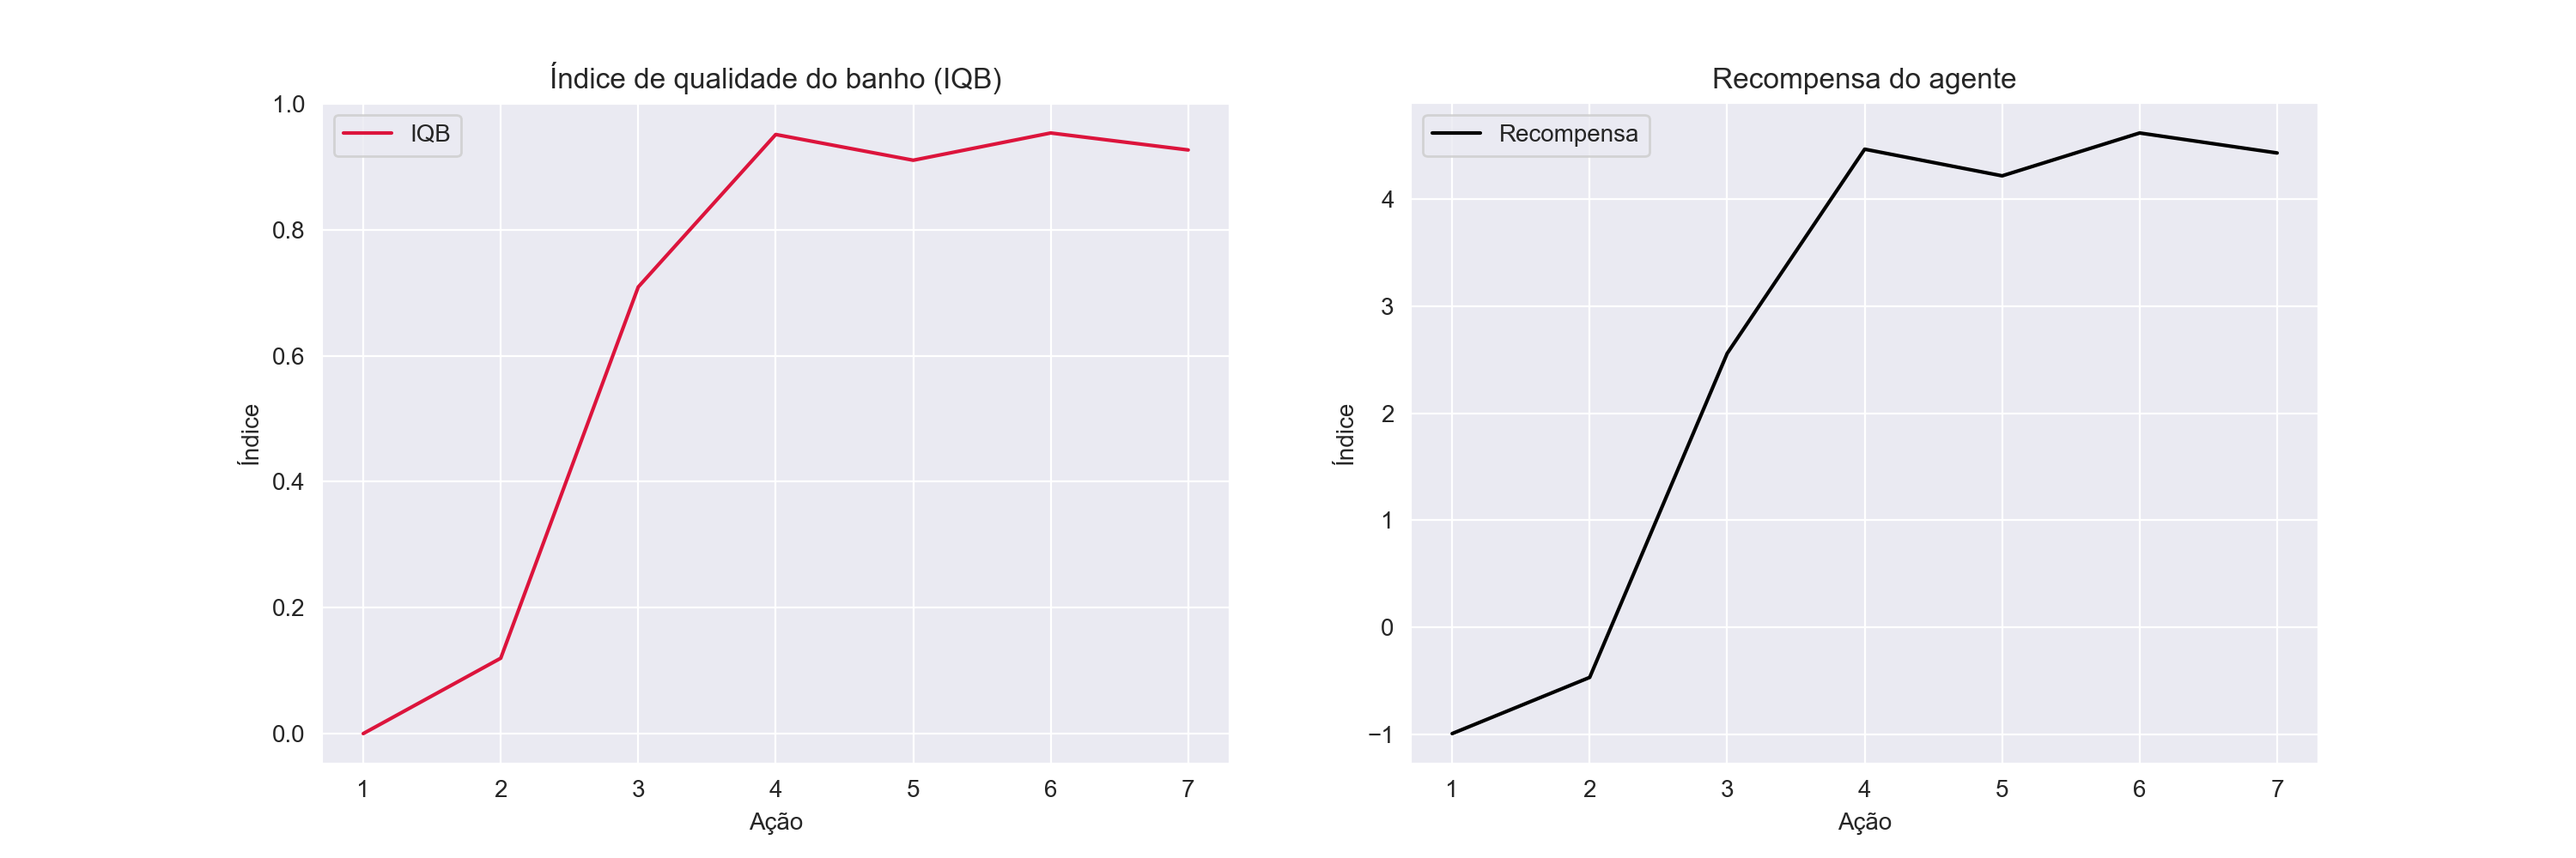
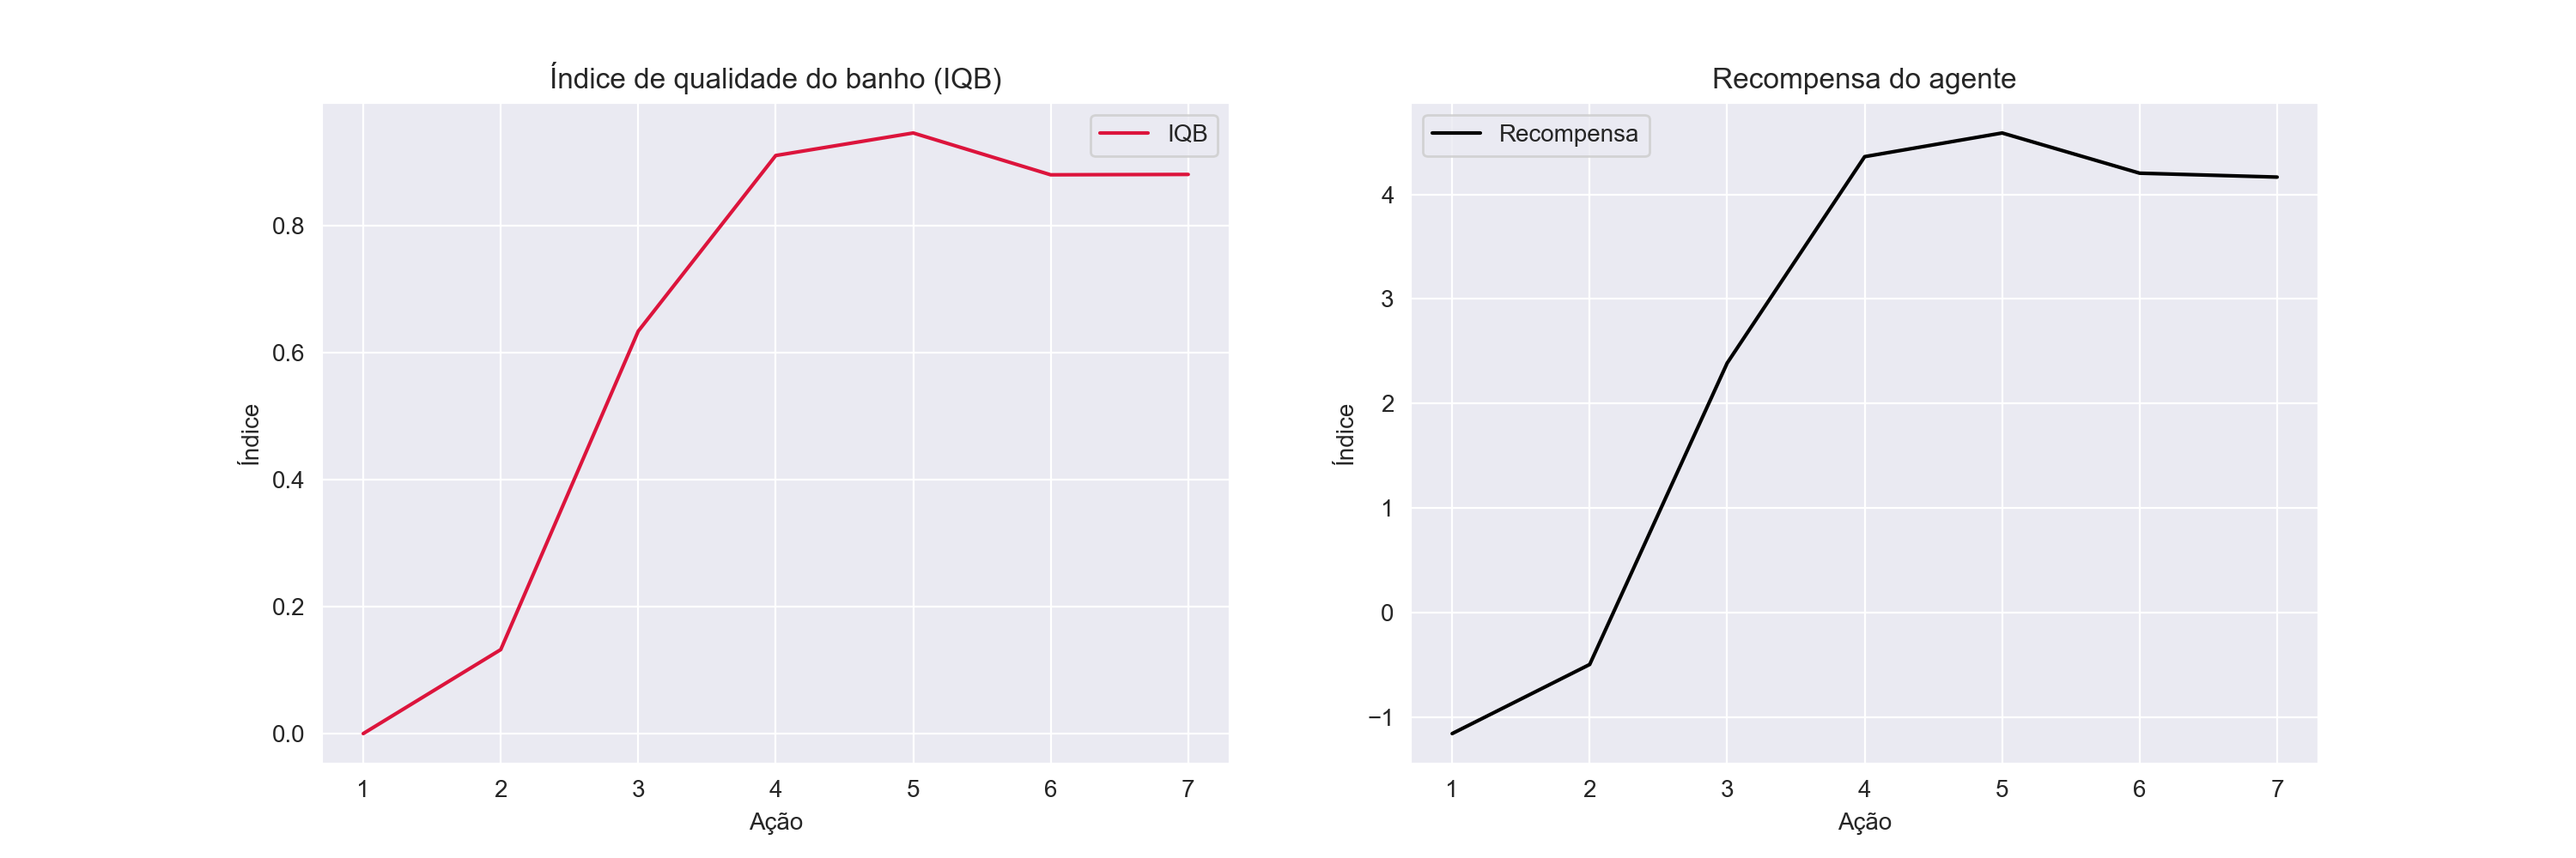
Results

diff --git a/treina_agente.py b/treina_agente.py
@@ -80,8 +80,10 @@ class ShowerEnv(gym.Env):
     def reset(self):
         
         # Temperatura ambiente e custo da energia elétrica em kWh:
-        self.Tinf = random.choice(self.Tinf_list)
-        self.custo_eletrico_kwh = random.choice(self.custo_eletrico_kwh_list)
+        # self.Tinf = random.choice(self.Tinf_list)
+        # self.custo_eletrico_kwh = random.choice(self.custo_eletrico_kwh_list)
+        self.Tinf = 15
+        self.custo_eletrico_kwh = 2.25
 
         # Distúrbios Fd e Td, temperatura da corrente fria Tf:
         self.Fd = 0
@@ -572,7 +574,7 @@ Tinf_list = [15, 16, 17, 18, 19, 20, 21, 22, 23, 24, 25, 26, 27, 28, 29, 30]
 custo_eletrico_kwh_list = [1, 1.25, 1.5, 1.75, 2, 2.25]
 
 # Treina e avalia o agente:
-treina = True
+treina = False
 avalia = True
 
 if treina:
